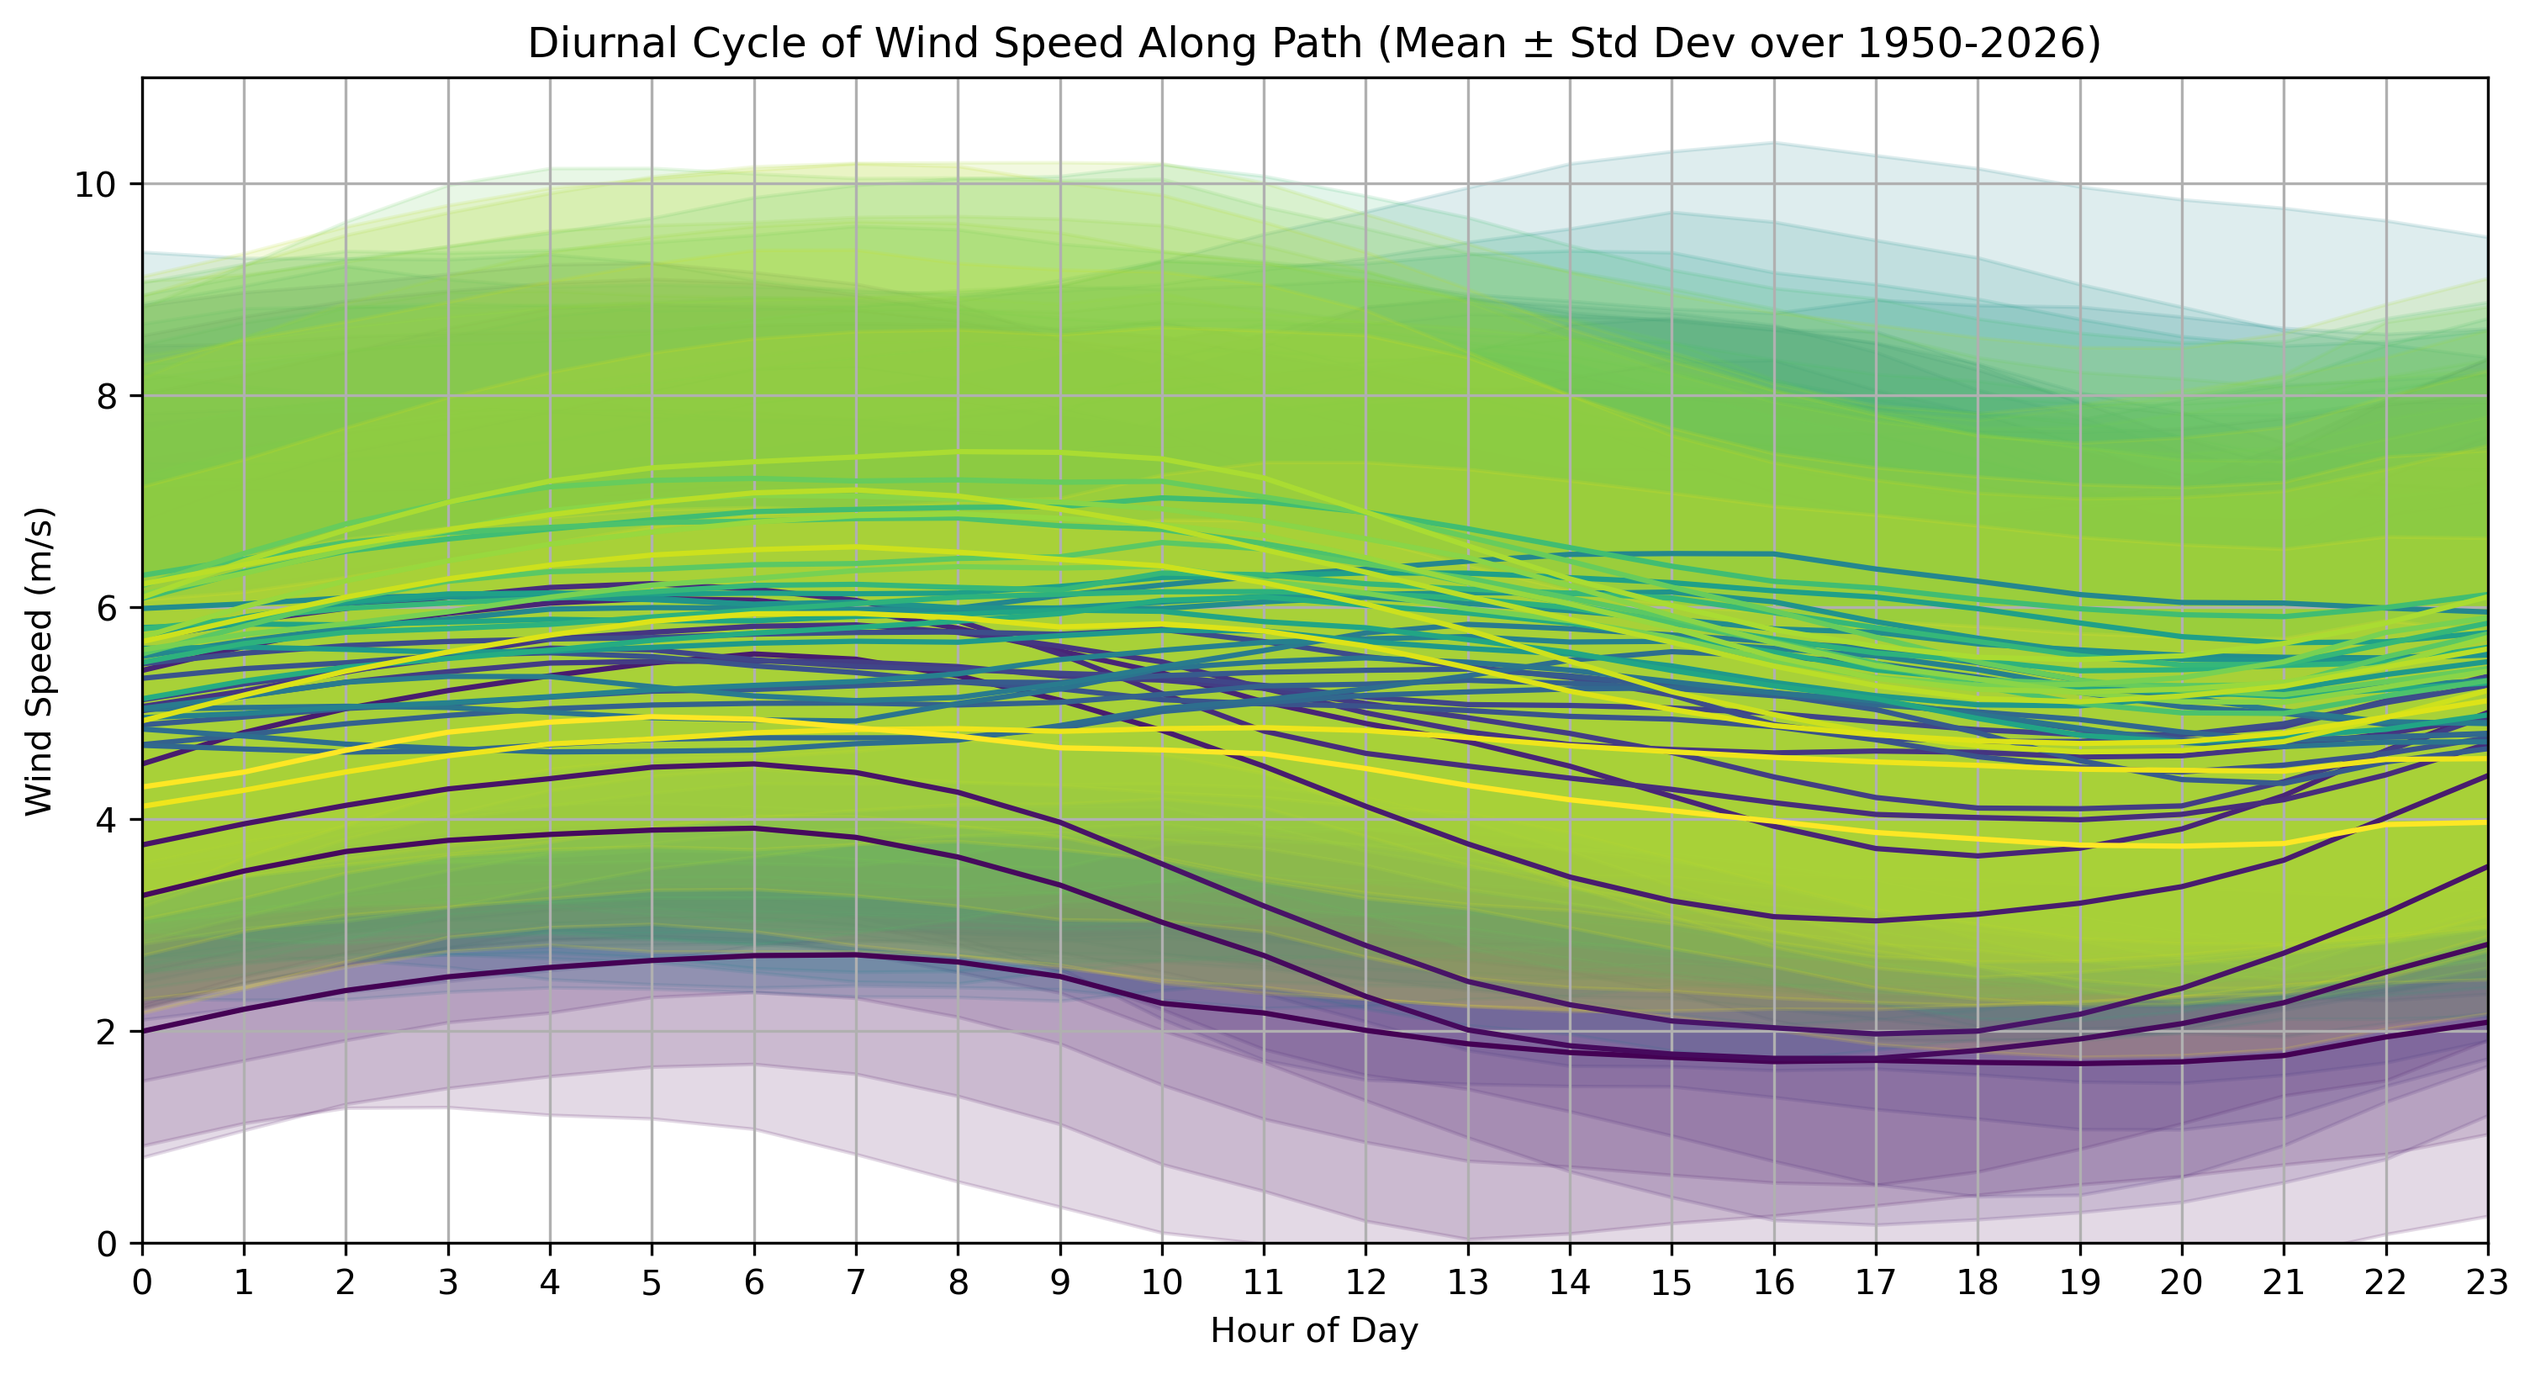
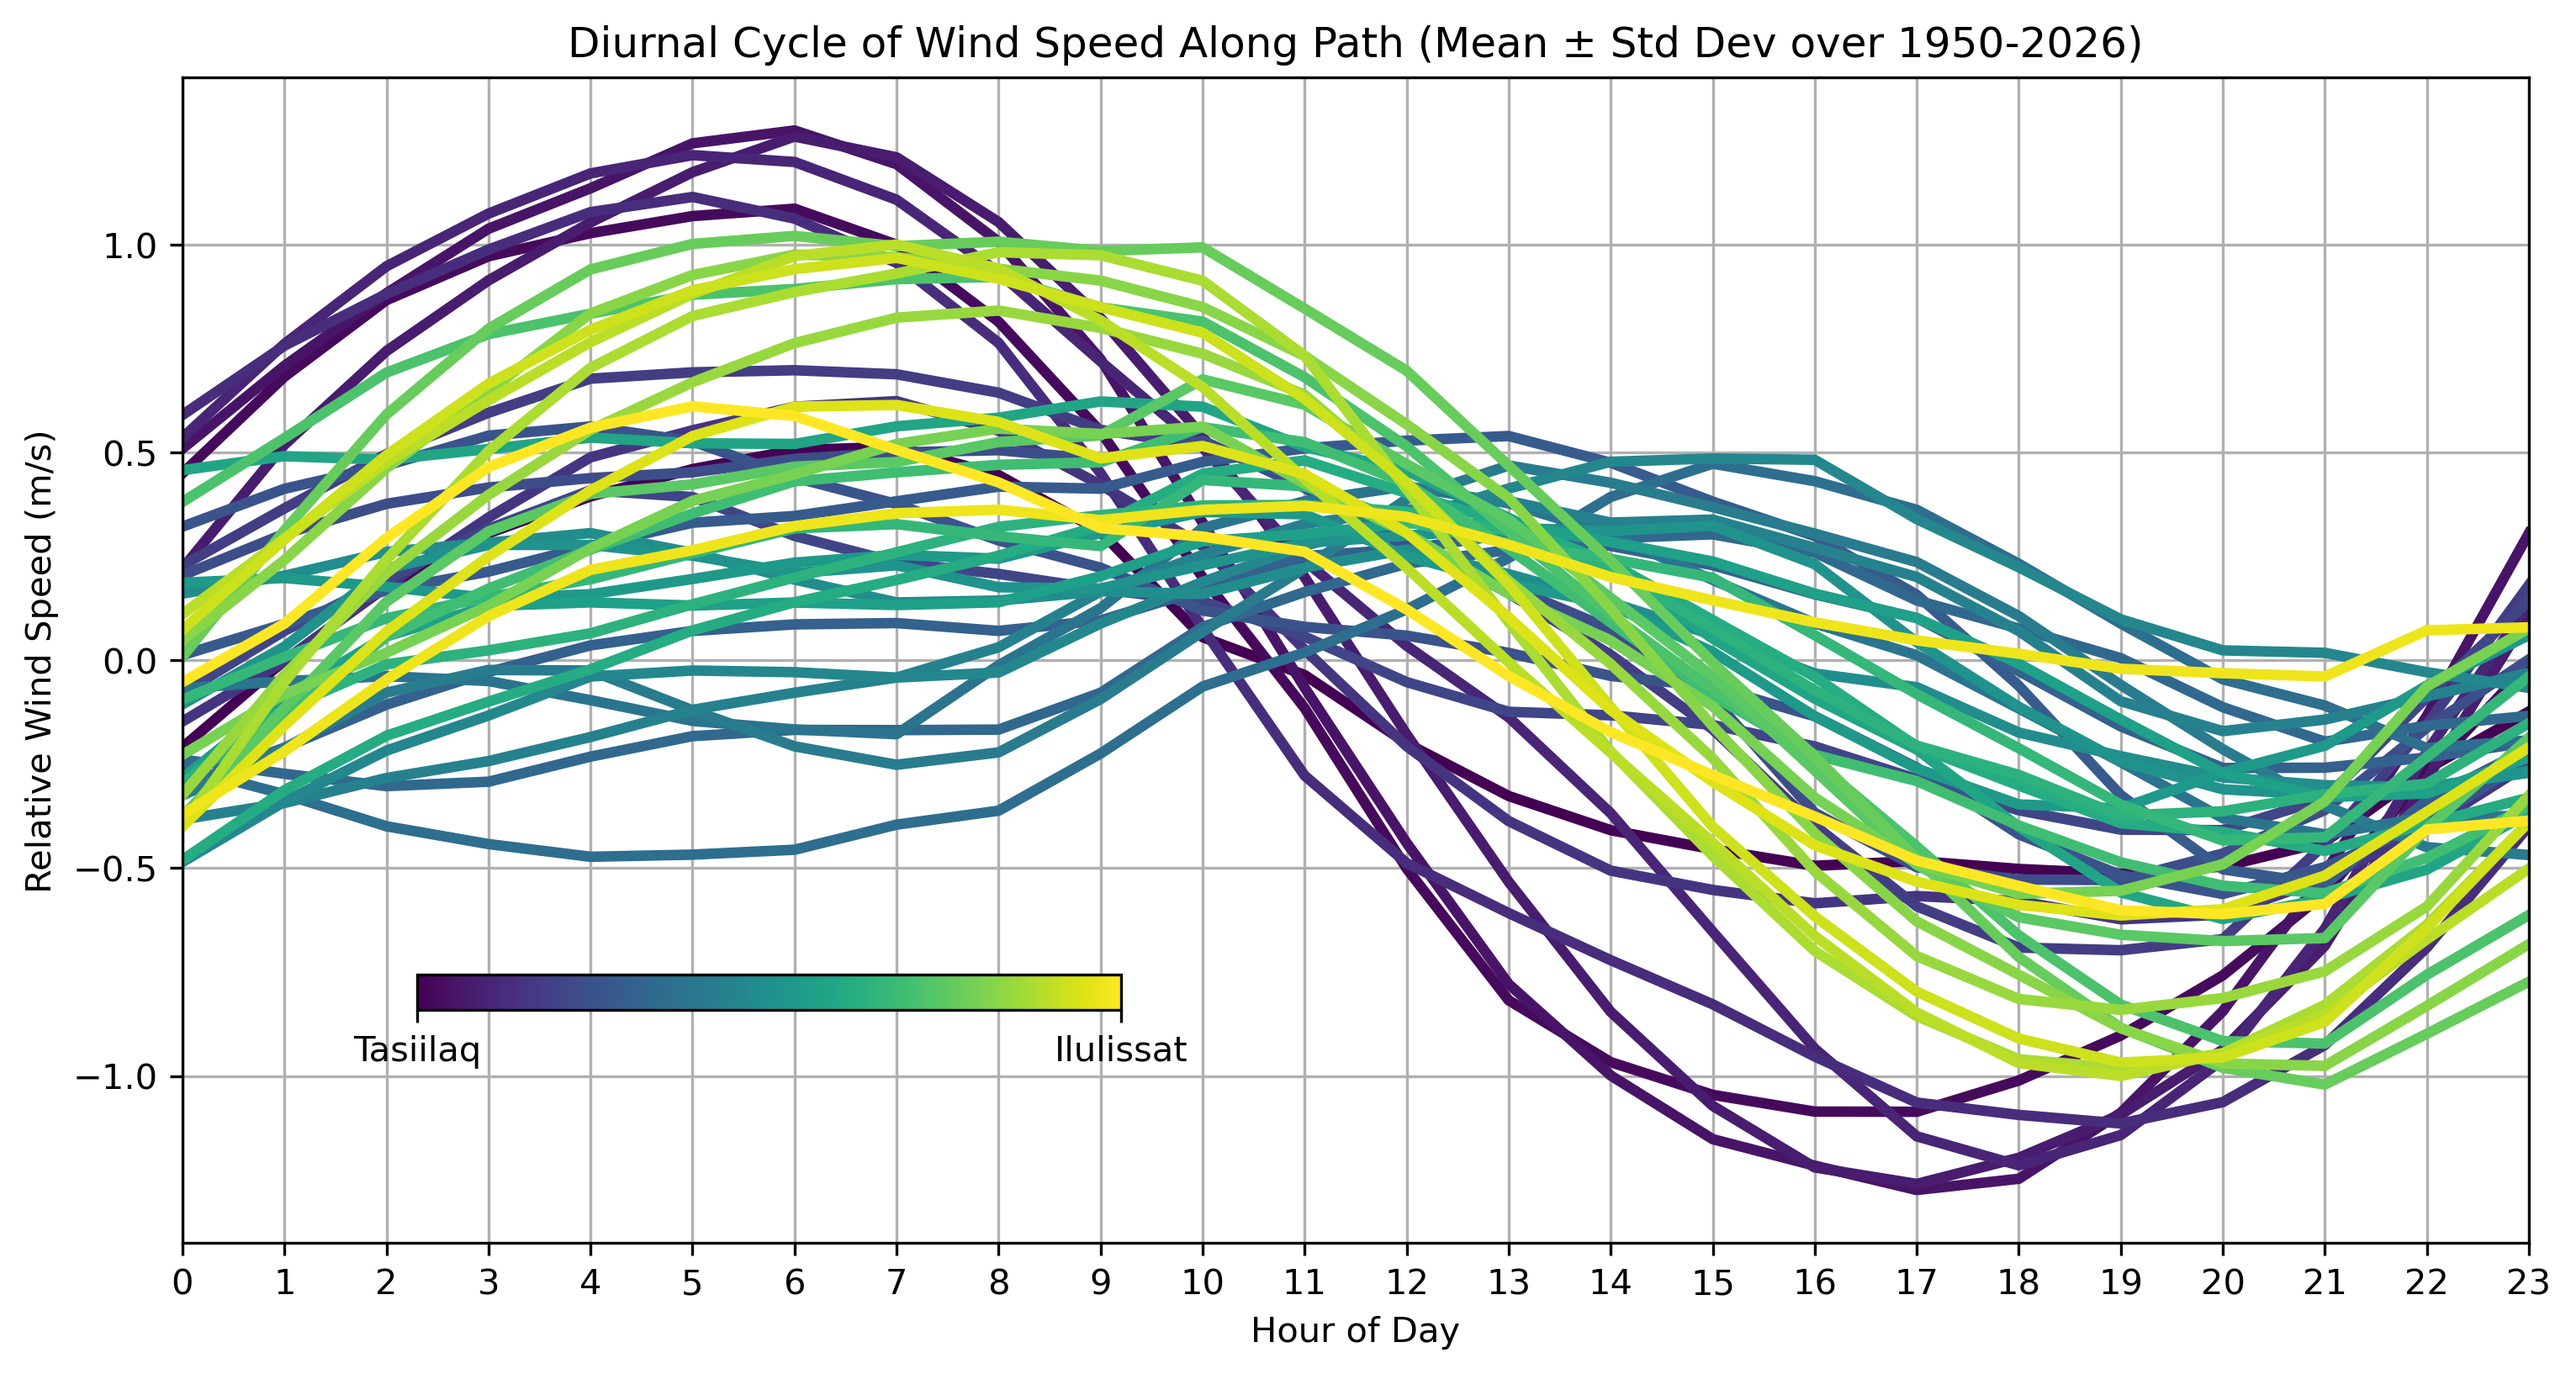
Diurnal Cycle Analysis update

diff --git a/ECMWF/ECMWF_ERA5.py b/ECMWF/ECMWF_ERA5.py
@@ -900,31 +900,69 @@ plt.show()
 
 import matplotlib.pyplot as plt
 import numpy as np
+from matplotlib.cm import ScalarMappable
+from matplotlib.colors import Normalize
 
 # line diagram for wind speed averaged over all years with hourly resolution
 mean_wind_speed = np.mean(wind_speed_along_path, axis=0) # shape (n_points, 24)
 std_wind_speed = np.std(wind_speed_along_path, axis=0) # shape (n_points, 24)
 
-plt.figure(figsize=(12, 6))
+from scipy.signal import find_peaks
+
+peak_max_indices = []
+peak_min_indices = []
+
+for i in range(len(dates)):
+    y = mean_wind_speed[i, :]
+    # Find maxima
+    peaks, _ = find_peaks(y)
+    # Find minima
+    troughs, _ = find_peaks(-y)
+    # Get the highest peak and lowest trough
+    if len(peaks) > 0:
+        peak_max = peaks[np.argmax(y[peaks])]
+    else:
+        peak_max = np.argmax(y)
+    if len(troughs) > 0:
+        peak_min = troughs[np.argmin(y[troughs])]
+    else:
+        peak_min = np.argmin(y)
+    peak_max_indices.append(peak_max)
+    peak_min_indices.append(peak_min)
+
+fig, ax = plt.subplots(figsize=(12, 6))
 # Use a colormap for gradient colors by index
 cmap = plt.get_cmap('viridis', len(dates))
 for i in range(len(dates)):
     color = cmap(i)
-    plt.plot(np.arange(0, 24), mean_wind_speed[i, :], label=f"Day {i+1} ({lats[i]:.2f}°, {lons[i]:.2f}°)", color=color)
-    plt.fill_between(
-        np.arange(0, 24),
-        mean_wind_speed[i, :] - std_wind_speed[i, :],
-        mean_wind_speed[i, :] + std_wind_speed[i, :],
-        color=color,
-        alpha=0.15
-    )
+    y_shift = (np.min(mean_wind_speed[i, :])+np.max(mean_wind_speed[i, :]))/2
+    x_shift = 12-(np.argmax(mean_wind_speed[i, :])+np.argmin(mean_wind_speed[i, :]))/2 # peakfinder needs to be used instead of simple max and min values
+    x_shift = 0
+    ax.plot((np.arange(0, 24)+x_shift), mean_wind_speed[i, :]-y_shift, label=f"Day {i+1} ({lats[i]:.2f}°, {lons[i]:.2f}°)", color=color, linewidth=3)
+    # ax.plot(np.arange(0, 24)[peak_max_indices]+x_shift, mean_wind_speed[i, peak_max_indices]-y_shift, 'o', color='orange', markersize=8)
+    # ax.plot(peak_min, y[peak_min]-y_shift, 'o', color='purple', markersize=8)
+    # ax.fill_between(
+    #     np.arange(0, 24),
+    #     mean_wind_speed[i, :] - std_wind_speed[i, :]-y_shift,
+    #     mean_wind_speed[i, :] + std_wind_speed[i, :]-y_shift,
+    #     color=color,
+    #     alpha=0.15
+    # )
 plt.title("Diurnal Cycle of Wind Speed Along Path (Mean ± Std Dev over 1950-2026)")
 plt.xlabel("Hour of Day")
-plt.ylabel("Wind Speed (m/s)")
+plt.ylabel("Relative Wind Speed (m/s)")
 plt.xlim(0, 23)
-plt.ylim(0, 11)
+# plt.ylim(0, 2.6)
 plt.xticks(np.arange(0, 24, 1))
 # plt.legend(bbox_to_anchor=(1.05, 1), loc='upper left', fontsize='small')
+
+norm = Normalize(vmin=0, vmax=len(dates)-1)
+sm = ScalarMappable(norm=norm, cmap='viridis')
+sm.set_array([])
+cax = ax.inset_axes([0.1, 0.2, 0.3, 0.03])  # [x0, y0, width, height] for horizontal
+cb = fig.colorbar(sm, cax=cax, orientation='horizontal')
+cb.set_ticks([0, len(dates)-1])
+cb.set_ticklabels(['Tasiilaq', 'Ilulissat'])
 plt.grid()
 plt.savefig("C:/Users/SchwarzN/OneDrive - Université de Fribourg/Private/2026_Greenland/WeatherAnalysis/GreenlandWeatherData/ECMWF/diurnal_cycle_wind_speed.png", dpi=300, bbox_inches='tight')
 plt.show()
